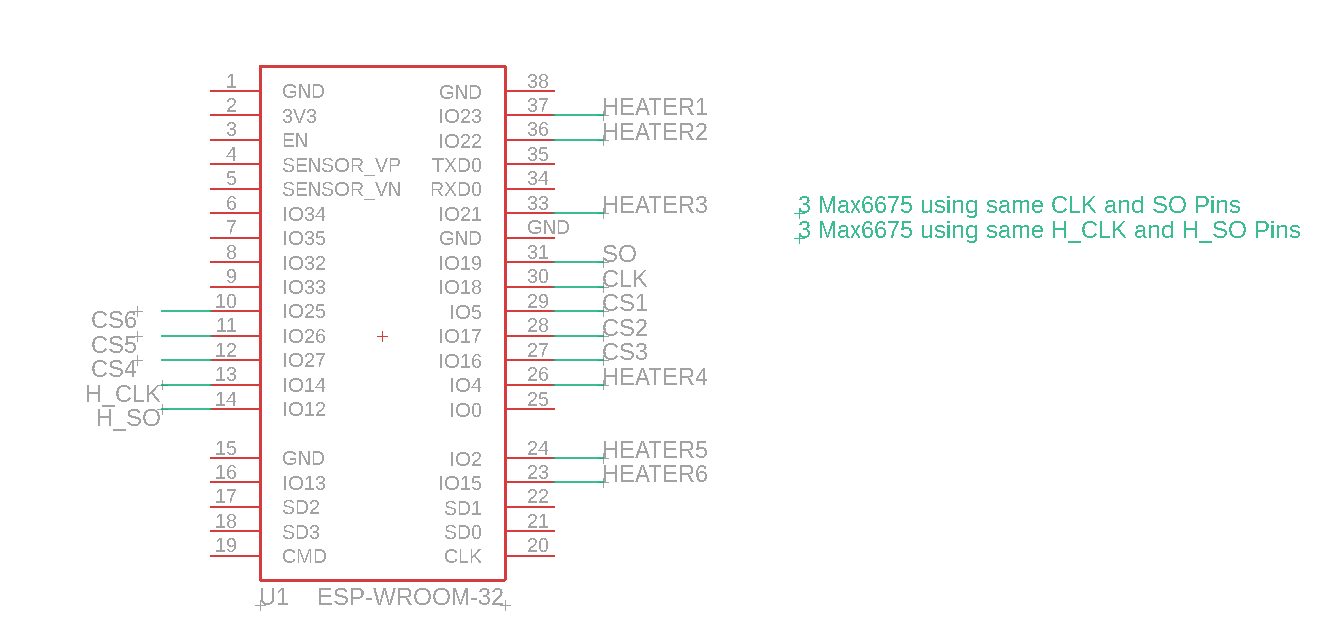
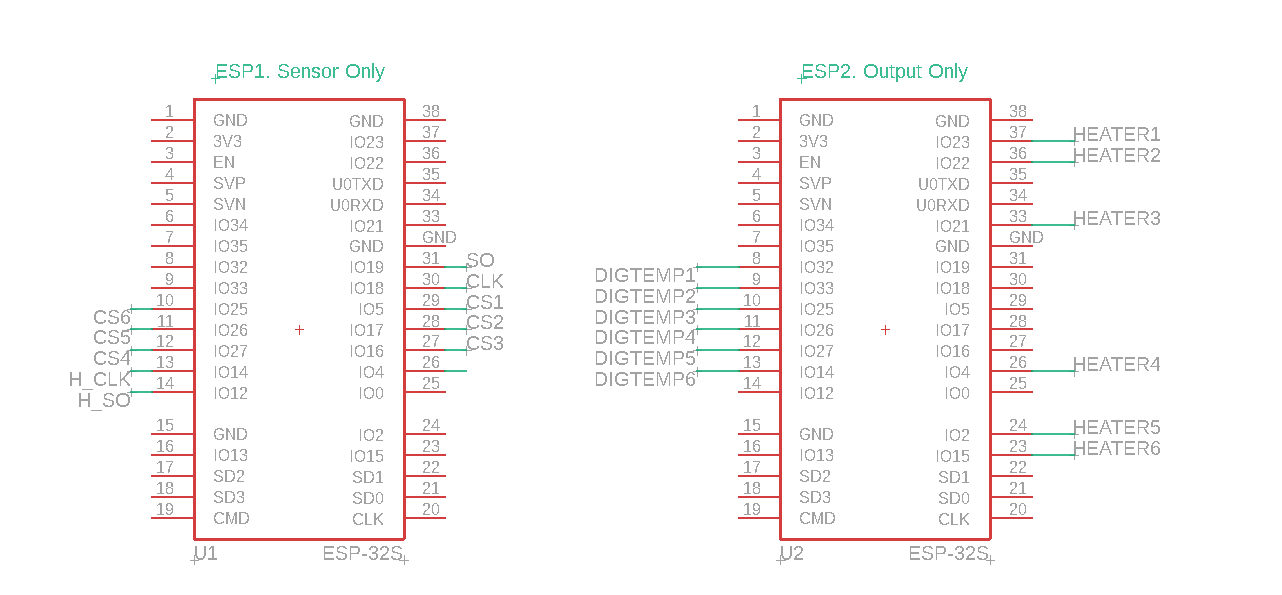
Update readme and sch

diff --git a/README.md b/README.md
@@ -4,7 +4,7 @@ Simple IOT Module to control 6 heaters (Relays) based on ESP32
 Monitor 6 temperature sensors using MAX6675 modules, split into 2 SPI Buses
 
 ### GPIO Pins
-- Digital Out: 
+- Heater (ESP2): 
 
         Heater 1 = 23
         Heater 2 = 22
@@ -12,14 +12,23 @@ Monitor 6 temperature sensors using MAX6675 modules, split into 2 SPI Buses
         Heater 4 = 4 
         Heater 5 = 2
         Heater 6 = 15
-- SPI 1, 3 sensors:
+
+- Digital Temp Module (ESP2): 
+
+        DigTemp 1 = 32
+        Heater 2 = 33
+        Heater 3 = 25
+        Heater 4 = 26
+        Heater 5 = 27
+        Heater 6 = 14
+- SPI 1, 3 sensors (ESP1):
 
         CLK = 18
         SO = 19
         CS1 = 5
         CS2 = 17
         CS3 = 16
-- SPI 2, 3 sensors:
+- SPI 2, 3 sensors (ESP1):
 
         H_CLK = 14
         H_SO = 12
